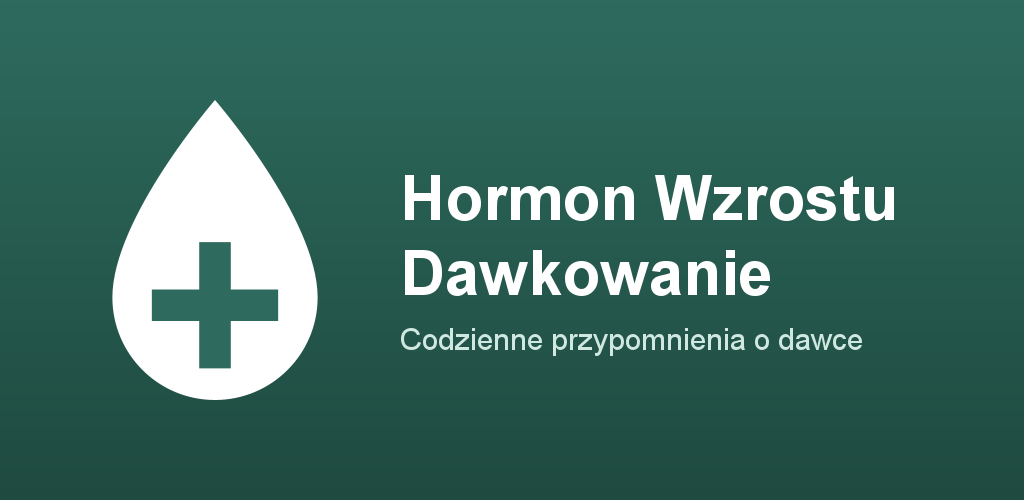
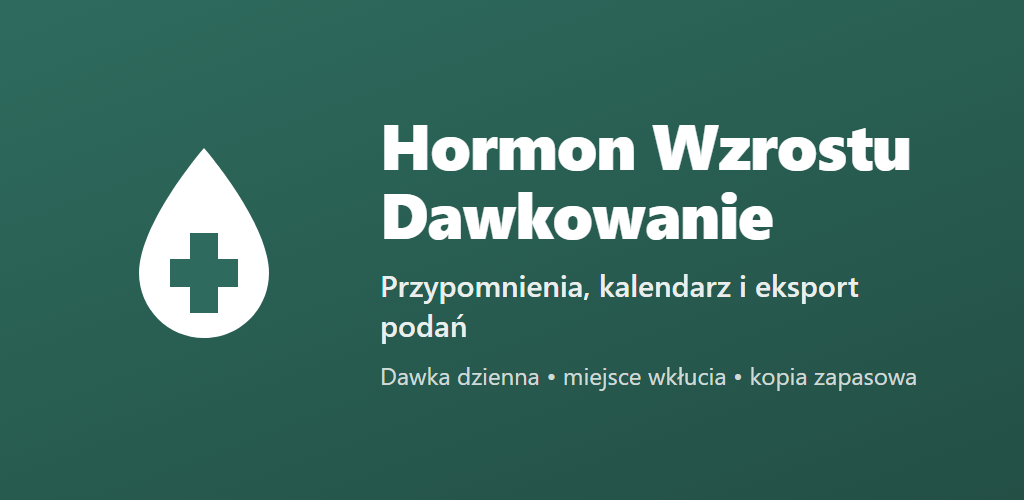
docs: odswiezony feature graphic (1024x500) - aktualne haslo i funkcje
Stare haslo "Codzienne przypomnienia o dawce" zanizalo zakres aplikacji.
Nowy baner: ten sam branding (logo kropla+krzyz, gradient marki), nazwa +
"Przypomnienia, kalendarz i eksport podan" + linia "Dawka dzienna • miejsce
wklucia • kopia zapasowa". Generator banera dodany do gen.py (render 1024x500).

Changed region(s): [[0.375, 0.24, 0.9062, 0.78], [0.0938, 0.21, 0.3125, 0.81]]

diff --git a/play-assets/screenshots/gen.py b/play-assets/screenshots/gen.py
@@ -369,4 +369,35 @@ for name, html in screens.items():
     with open(p, "w", encoding="utf-8") as f:
         f.write(html)
     print("wrote", p)
+
+# --- Feature graphic 1024x500 (baner listingu Play) ---
+FEATURE = f'''<!doctype html><html lang="pl"><head><meta charset="utf-8">
+<style>
+*{{margin:0;padding:0;box-sizing:border-box;}}
+html,body{{width:1024px;height:500px;font-family:{FONT};}}
+.fbg{{width:1024px;height:500px;background:linear-gradient(160deg,{PRIMARY} 0%,{PRIMARY_DARK} 100%);
+  display:flex;align-items:center;gap:56px;padding:0 84px;}}
+.flogo{{flex:0 0 auto;}}
+.ftxt h1{{color:#fff;font-size:64px;font-weight:800;line-height:1.08;letter-spacing:-1px;}}
+.ftag{{color:#fff;opacity:.9;font-size:30px;font-weight:500;margin-top:18px;}}
+.ffeat{{color:#fff;opacity:.78;font-size:24px;margin-top:14px;}}
+</style></head><body>
+<div class="fbg">
+  <div class="flogo">
+    <svg width="240" height="240" viewBox="0 0 24 24">
+      <path d="M12,2 C12,2 5.5,9.5 5.5,14.5 C5.5,18.09 8.41,21 12,21 C15.59,21 18.5,18.09 18.5,14.5 C18.5,9.5 12,2 12,2 Z" fill="#fff"/>
+      <rect x="10.6" y="10.5" width="2.8" height="8" fill="{PRIMARY}"/>
+      <rect x="8.6" y="13.1" width="6.8" height="2.8" fill="{PRIMARY}"/>
+    </svg>
+  </div>
+  <div class="ftxt">
+    <h1>Hormon Wzrostu<br>Dawkowanie</h1>
+    <div class="ftag">Przypomnienia, kalendarz i eksport podań</div>
+    <div class="ffeat">Dawka dzienna • miejsce wkłucia • kopia zapasowa</div>
+  </div>
+</div>
+</body></html>'''
+with open(os.path.join(BUILD, "feature-1024x500.html"), "w", encoding="utf-8") as f:
+    f.write(FEATURE)
+print("wrote feature-1024x500.html")
 print("OK")
